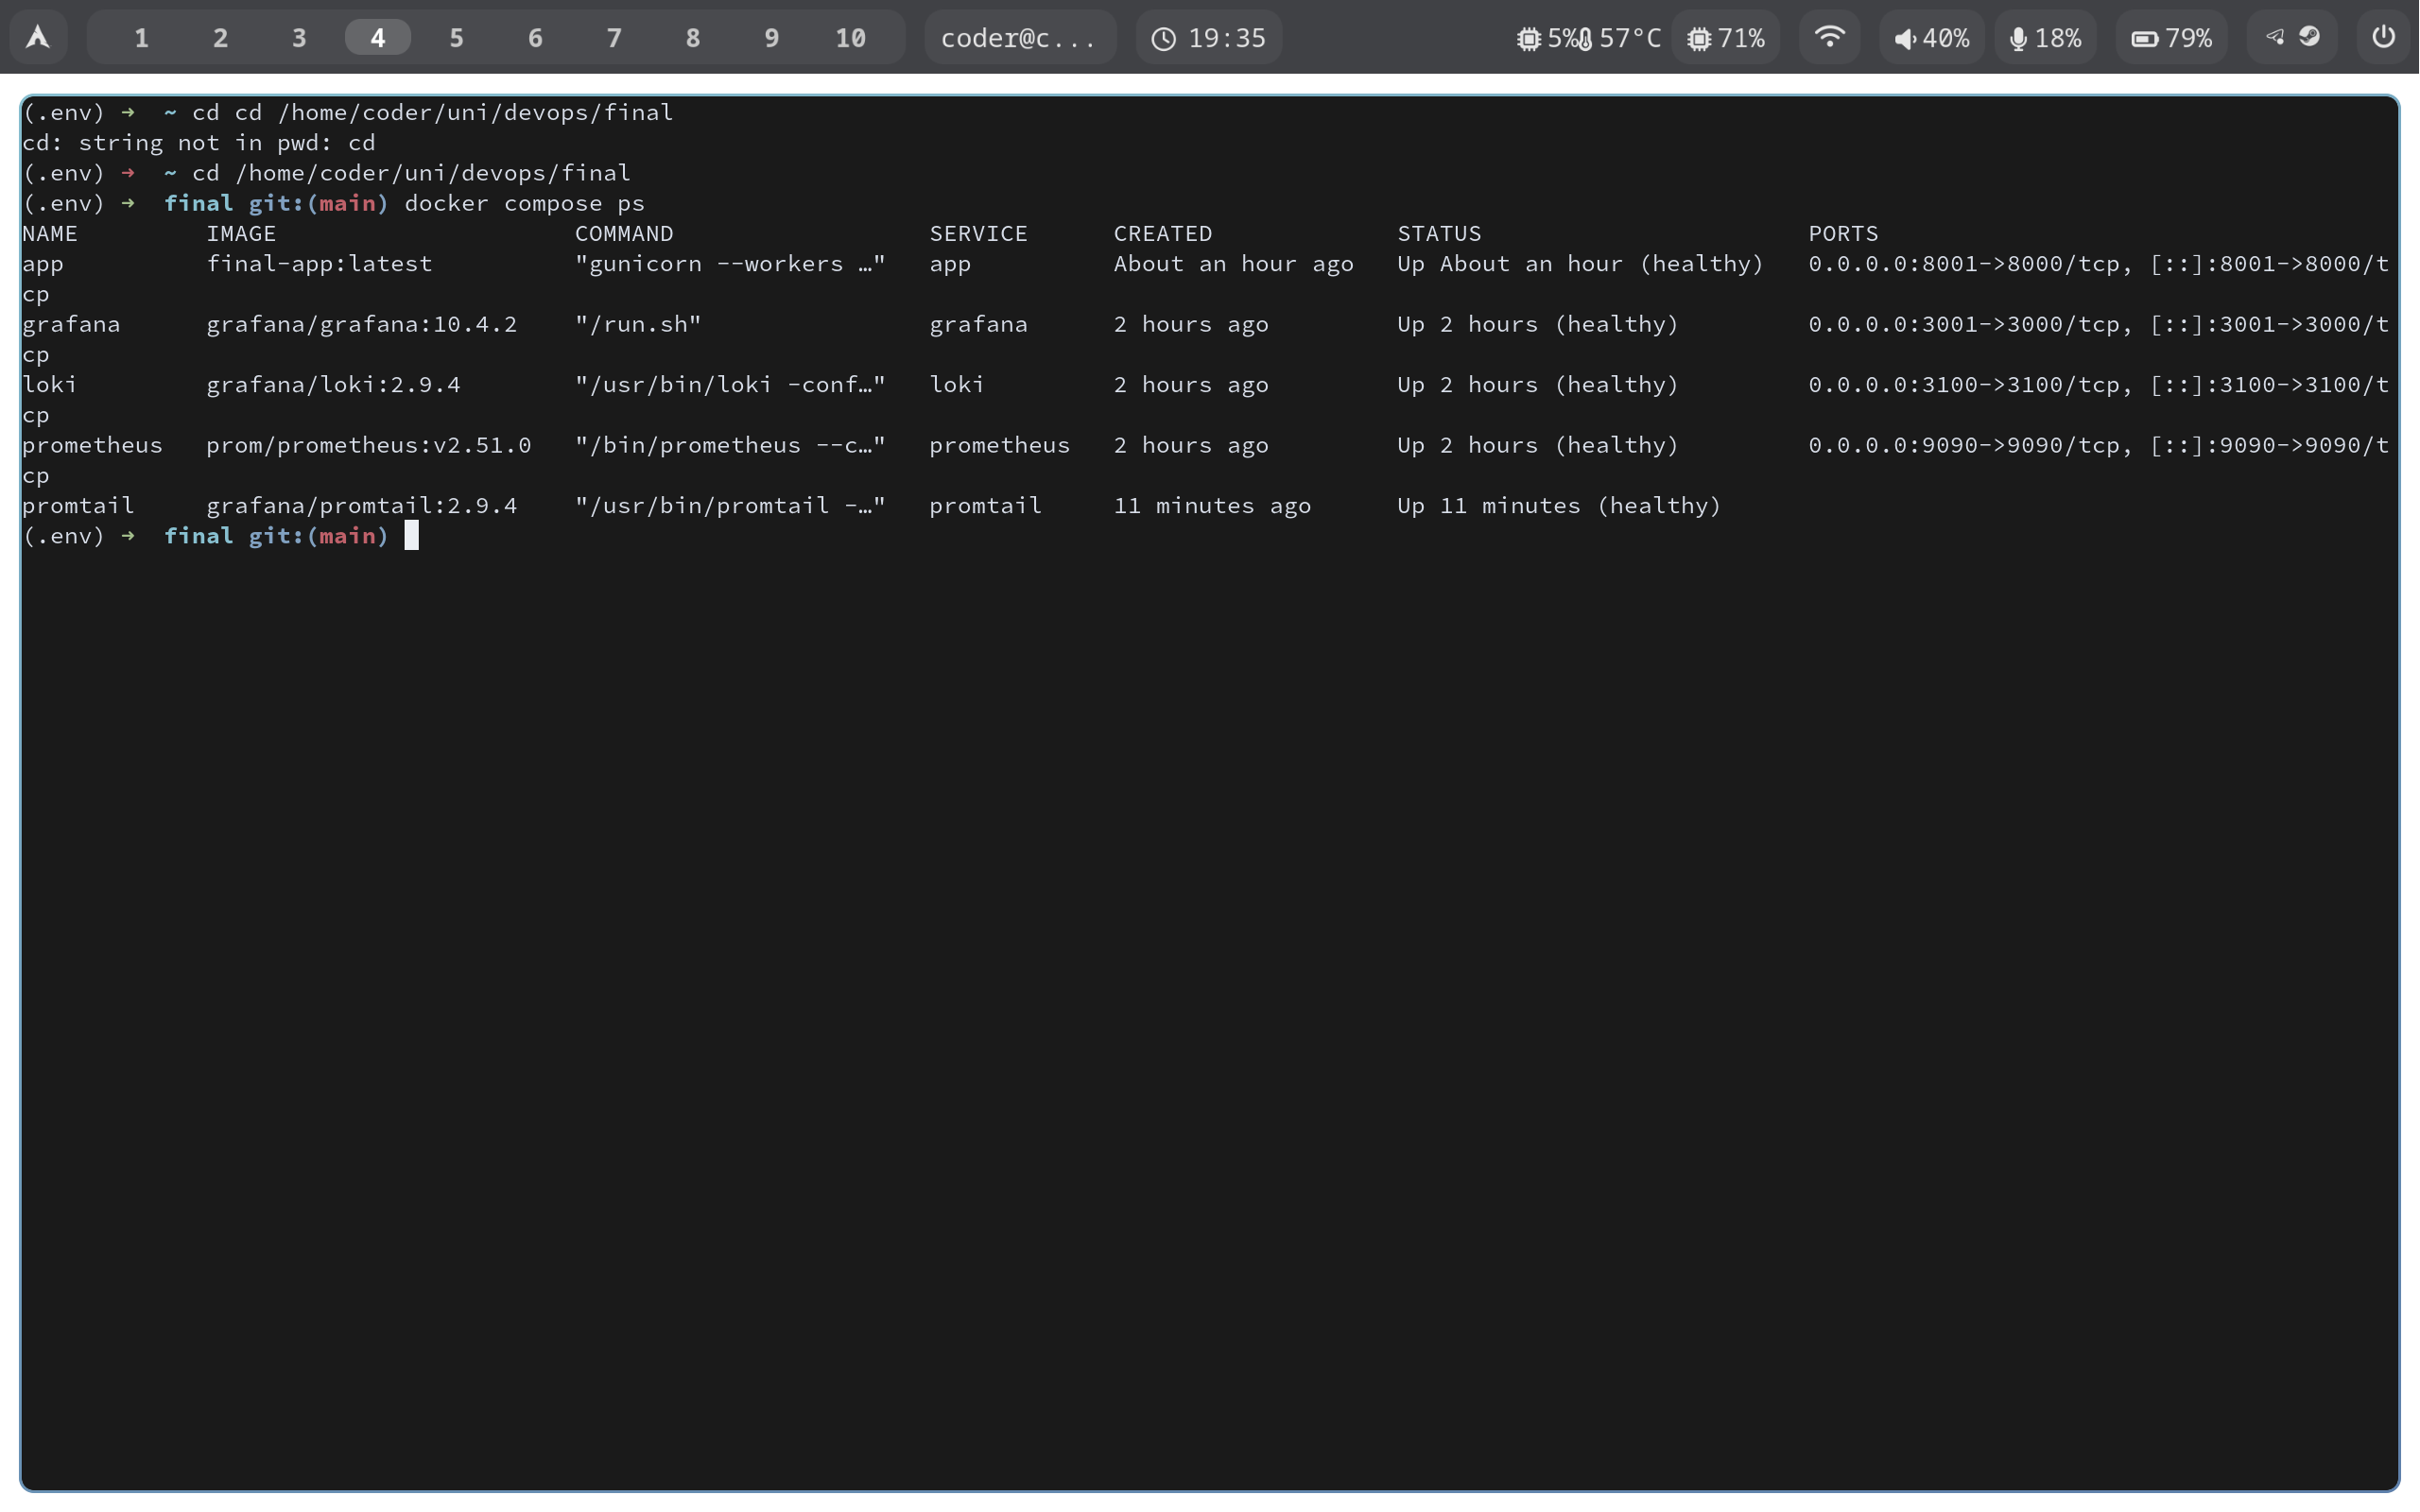
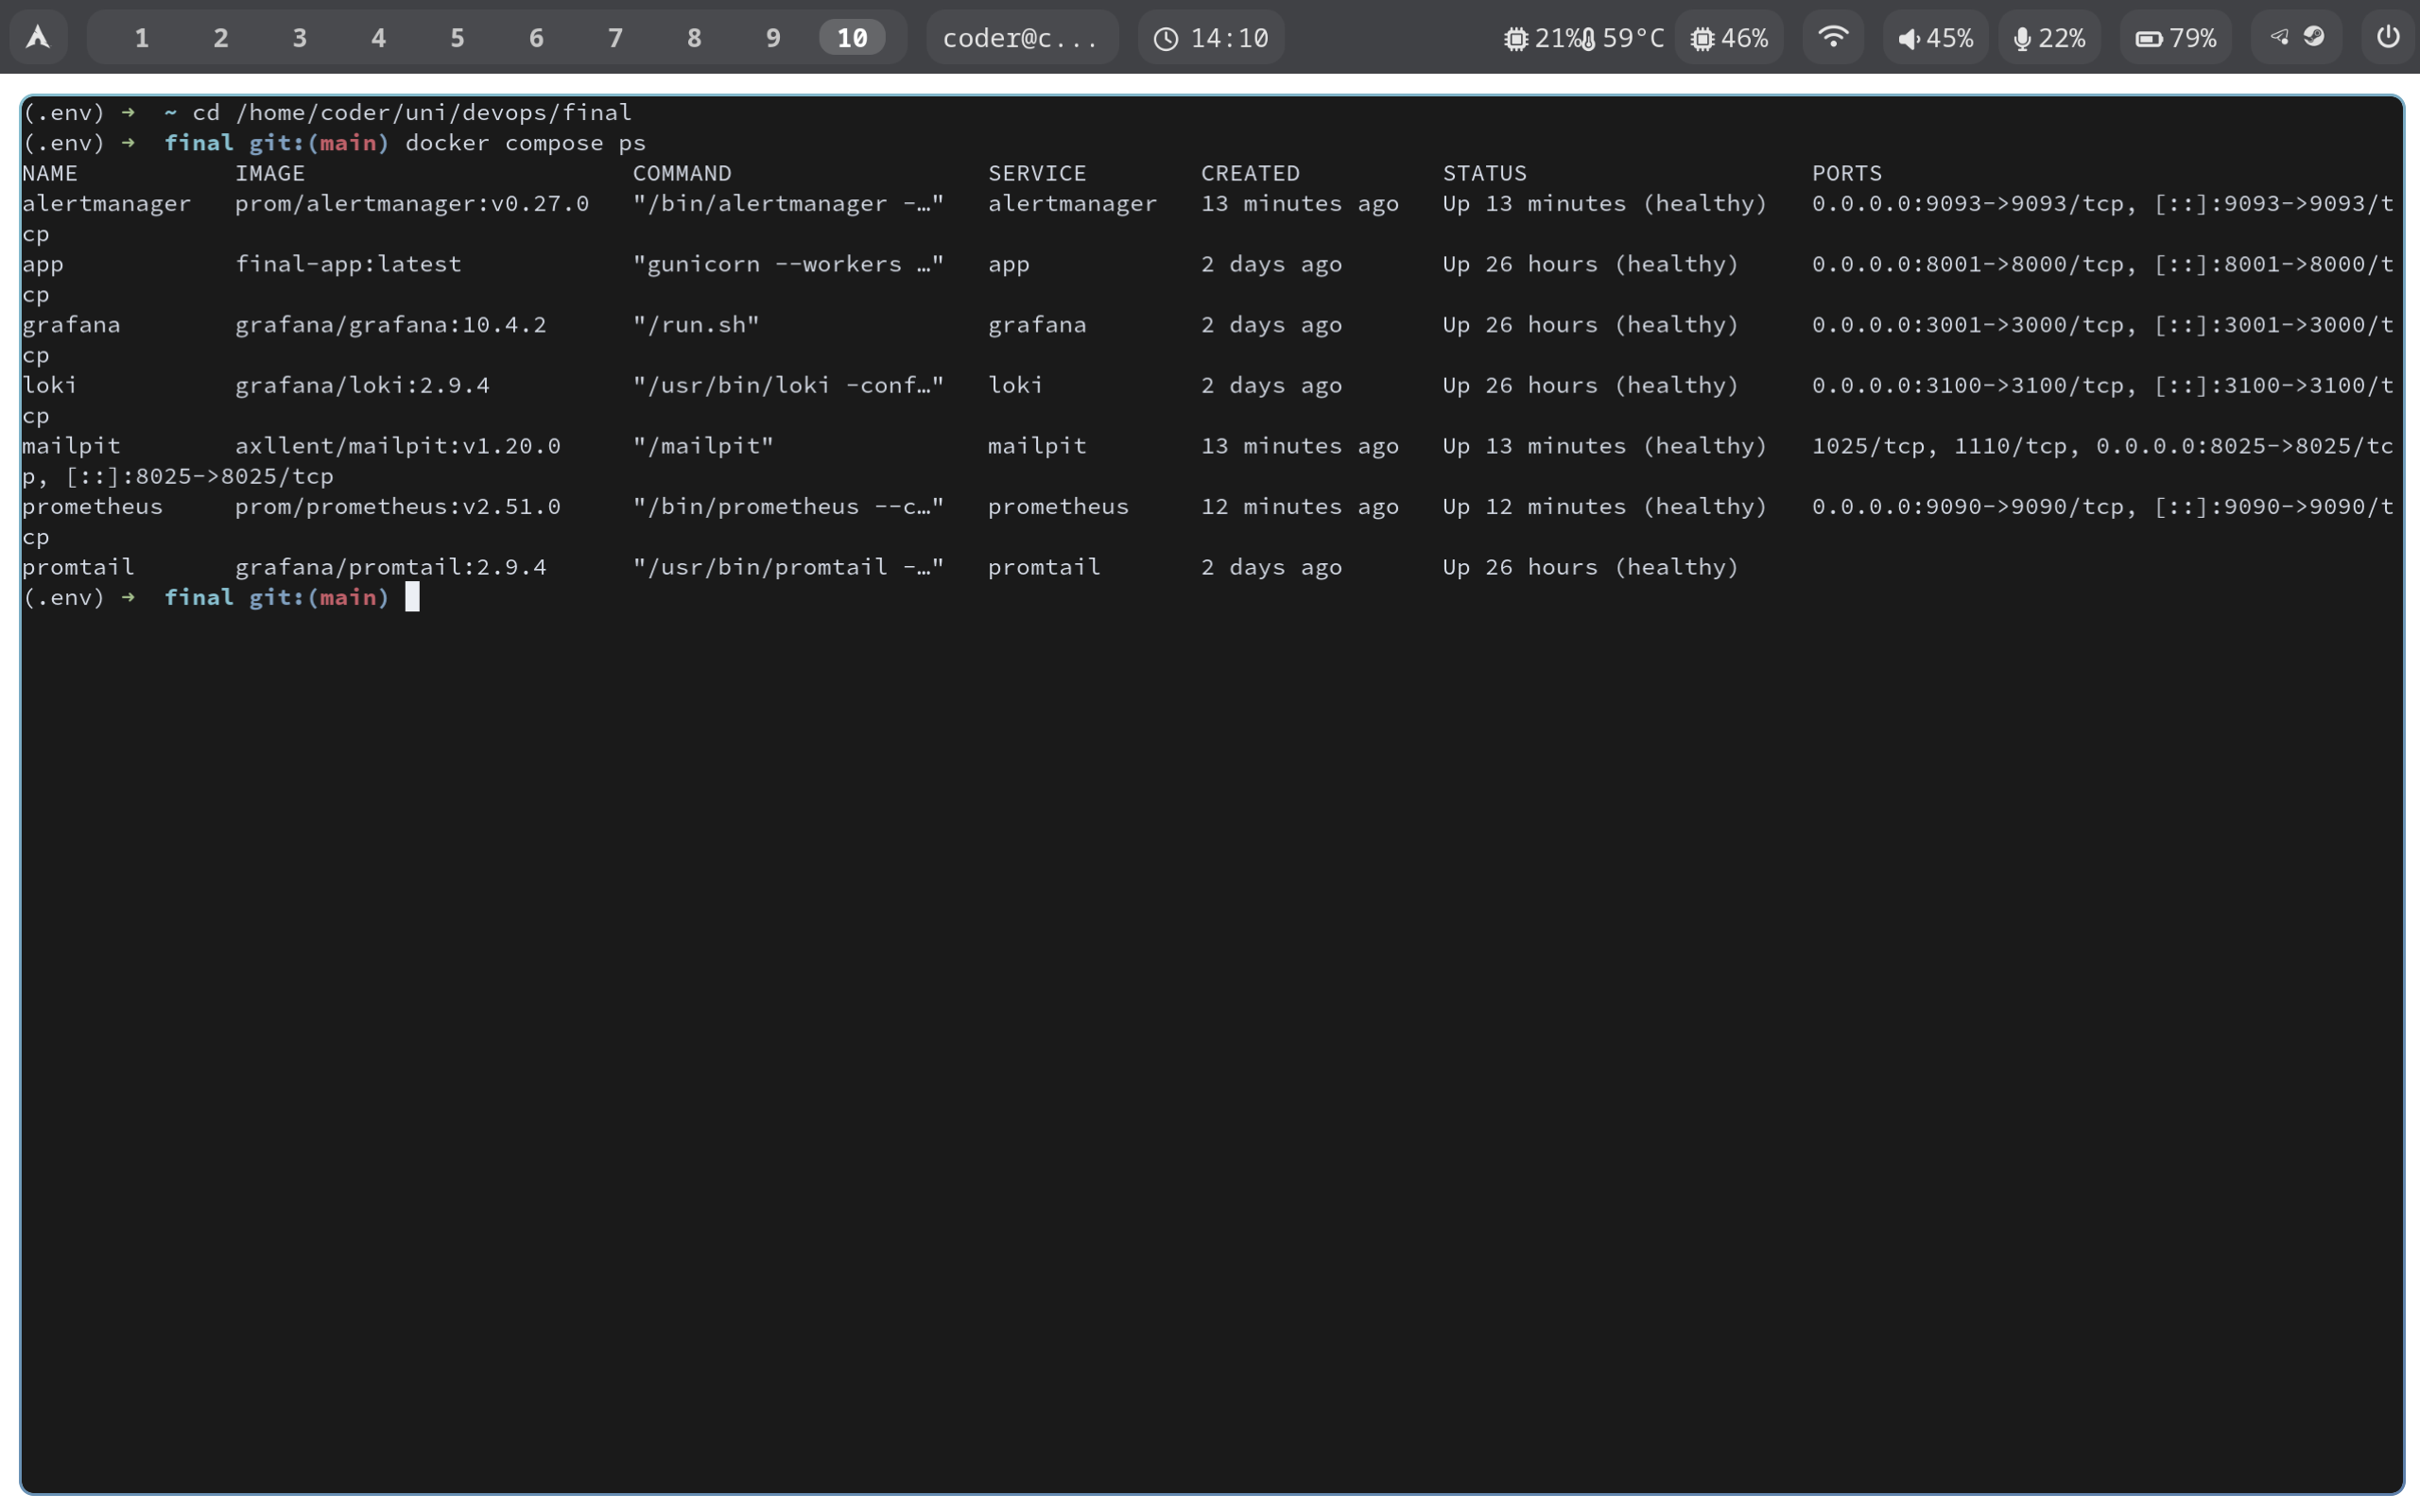
docs: add alertmanager notification + refreshed 7-service compose-healthy screenshots

diff --git a/README.md b/README.md
@@ -344,11 +344,11 @@ Grafana Alerting — `HighErrorRate` firing detail and all three rules grouped:
 ![Grafana alert firing detail](docs/alert-firing-2.png)
 ![Grafana alert rules grouped](docs/alert-firing-3.png)
 
-Notification path — the fired alert delivered as an email in the **Mailpit**
-inbox (and routed through Alertmanager):
+Notification path — **Alertmanager** shows the fired `HighErrorRate` alert
+grouped under the **`mailpit`** receiver, i.e. routed out to email (delivered to
+the Mailpit inbox at http://localhost:8025):
 
-![Mailpit inbox with HighErrorRate alert email](docs/alert-notification-1.png)
-![Alertmanager showing the active alert](docs/alert-notification-2.png)
+![Alertmanager routing HighErrorRate to the mailpit receiver](docs/alert-notification-1.png)
 
 #### Security automation (`make security`)
 The full suite — hadolint, Trivy filesystem (deps + misconfig + secrets), Trivy